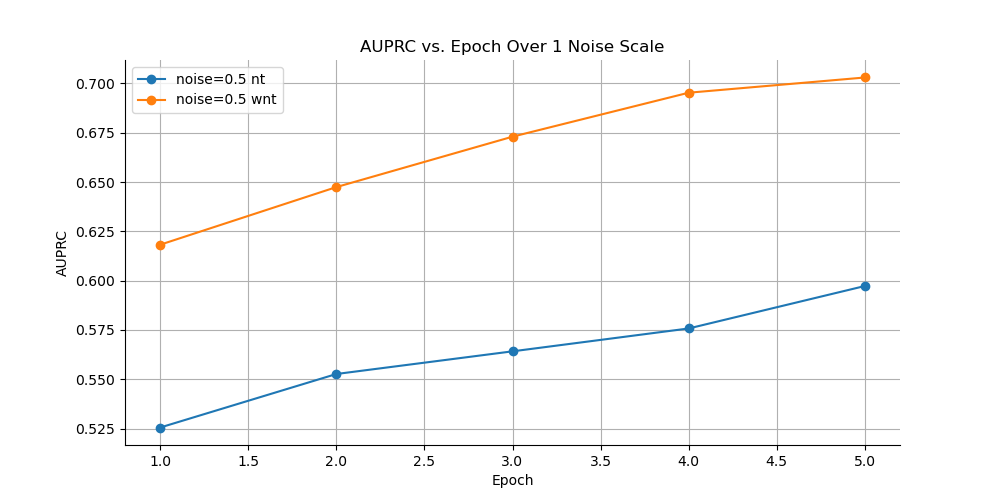
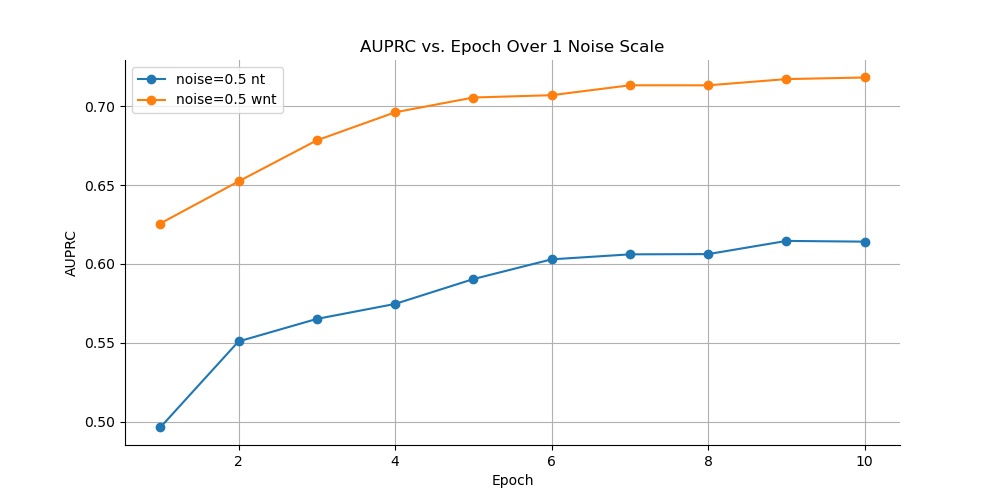
generate run of analysis on 3, 5, and 10 partitions

diff --git a/matthews_project/helper.py b/matthews_project/helper.py
@@ -665,17 +665,13 @@ if __name__ == '__main__':
     analysis_params = {
         "n_distinct_parties": 3,
         "layers": 1,
-        "noise_scales": [0.5, 1],
+        "noise_scales": [0.01, 0.1, 0.3, 0.5, 1, 2, 5],
         "training_epochs": 10,
         "batch_size": 32,
     }
     helper.generateAnalysis(**analysis_params)
 
     # 5 party data partition
-    analysis_params["n_distinct_parties"] = 5
-    helper.generateAnalysis(**analysis_params)
-
-    # 10 party data partition
-    analysis_params["n_distinct_parties"] = 10
+    analysis_params["n_distinct_parties"] = 7
     helper.generateAnalysis(**analysis_params)
 
